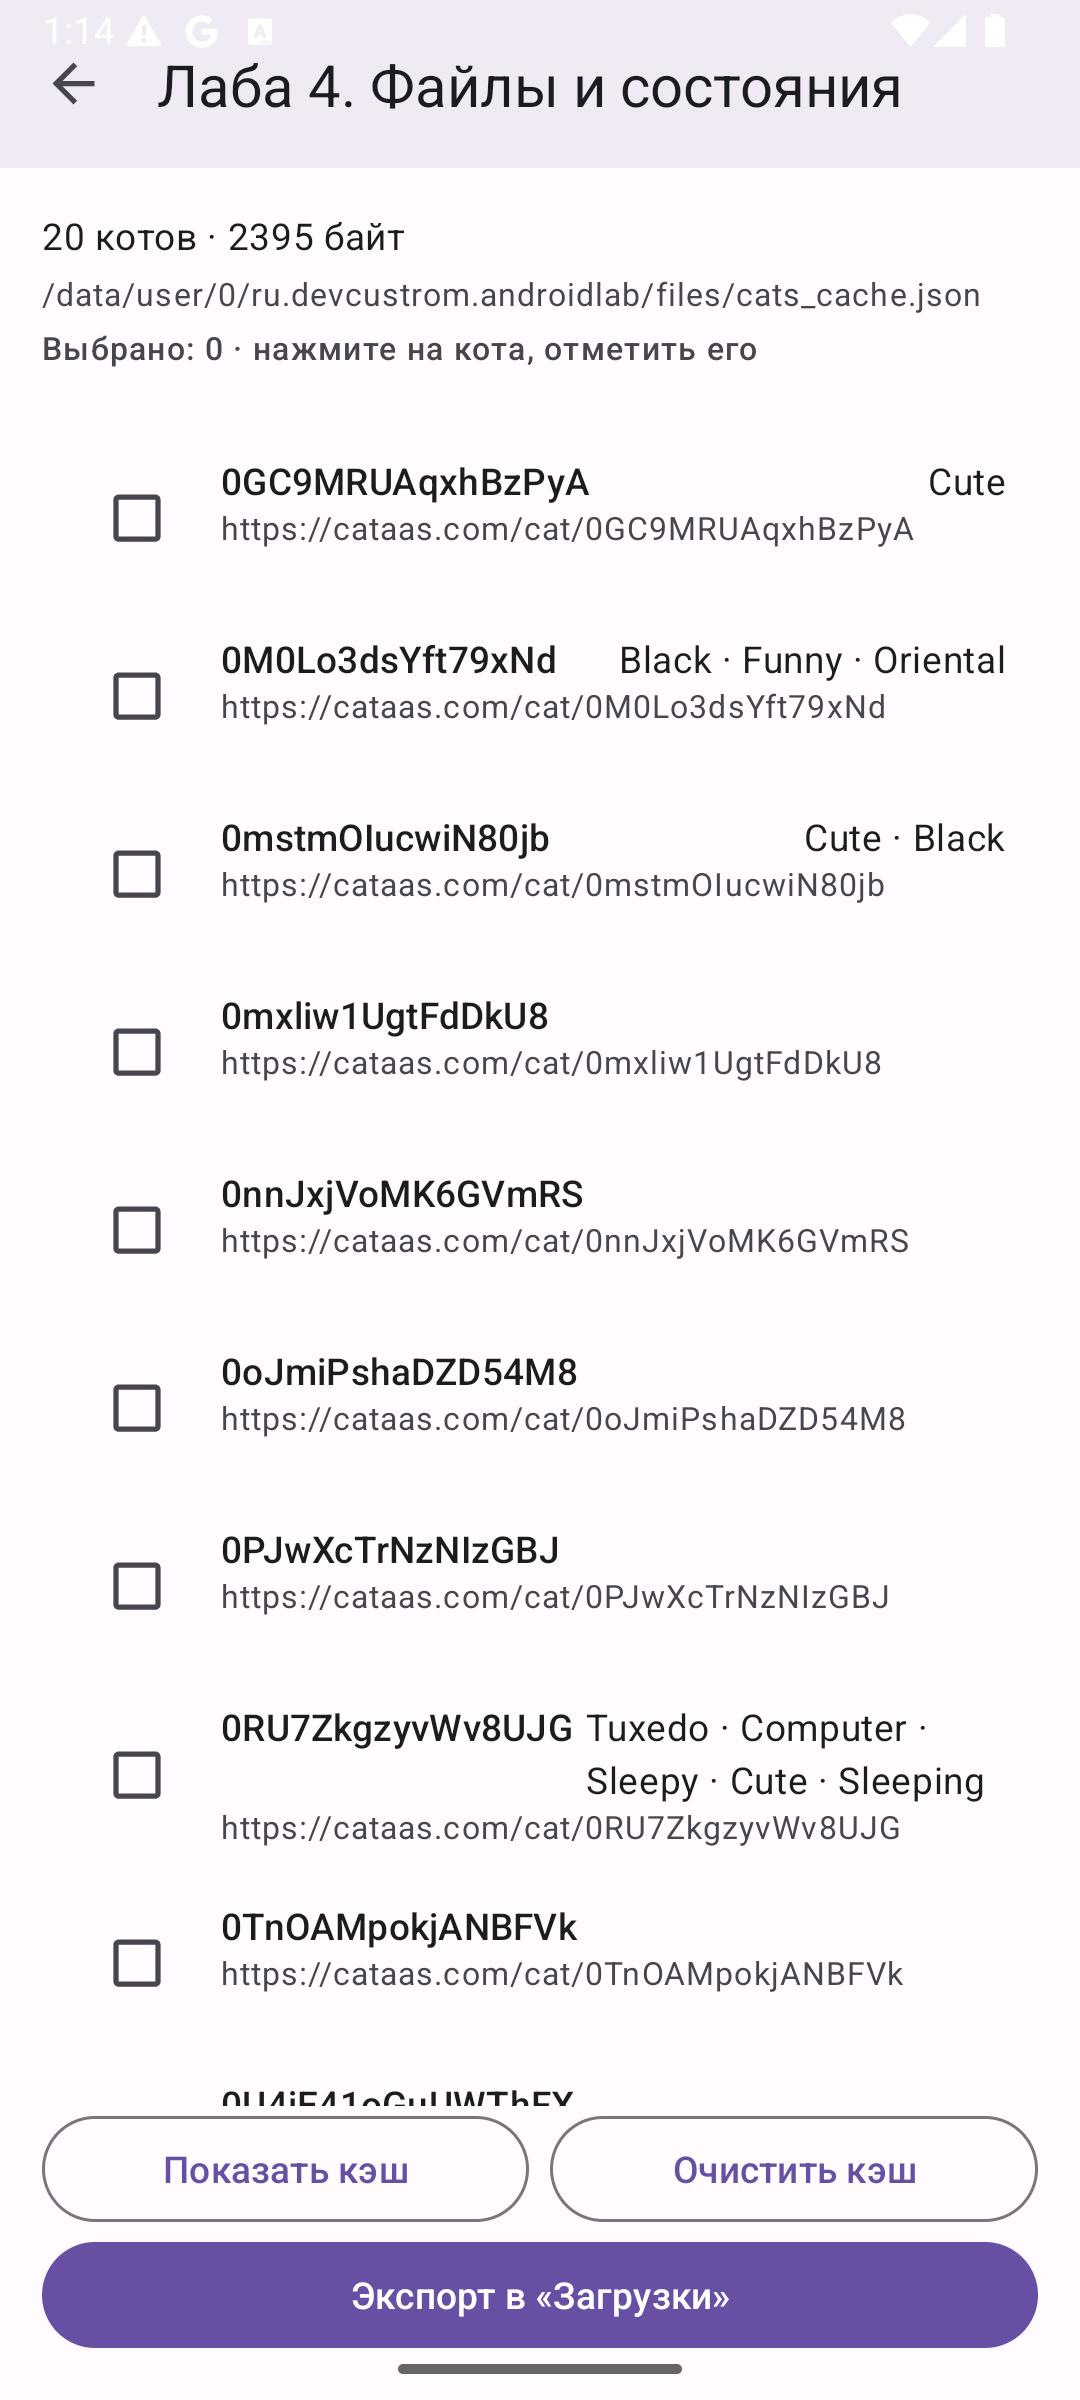
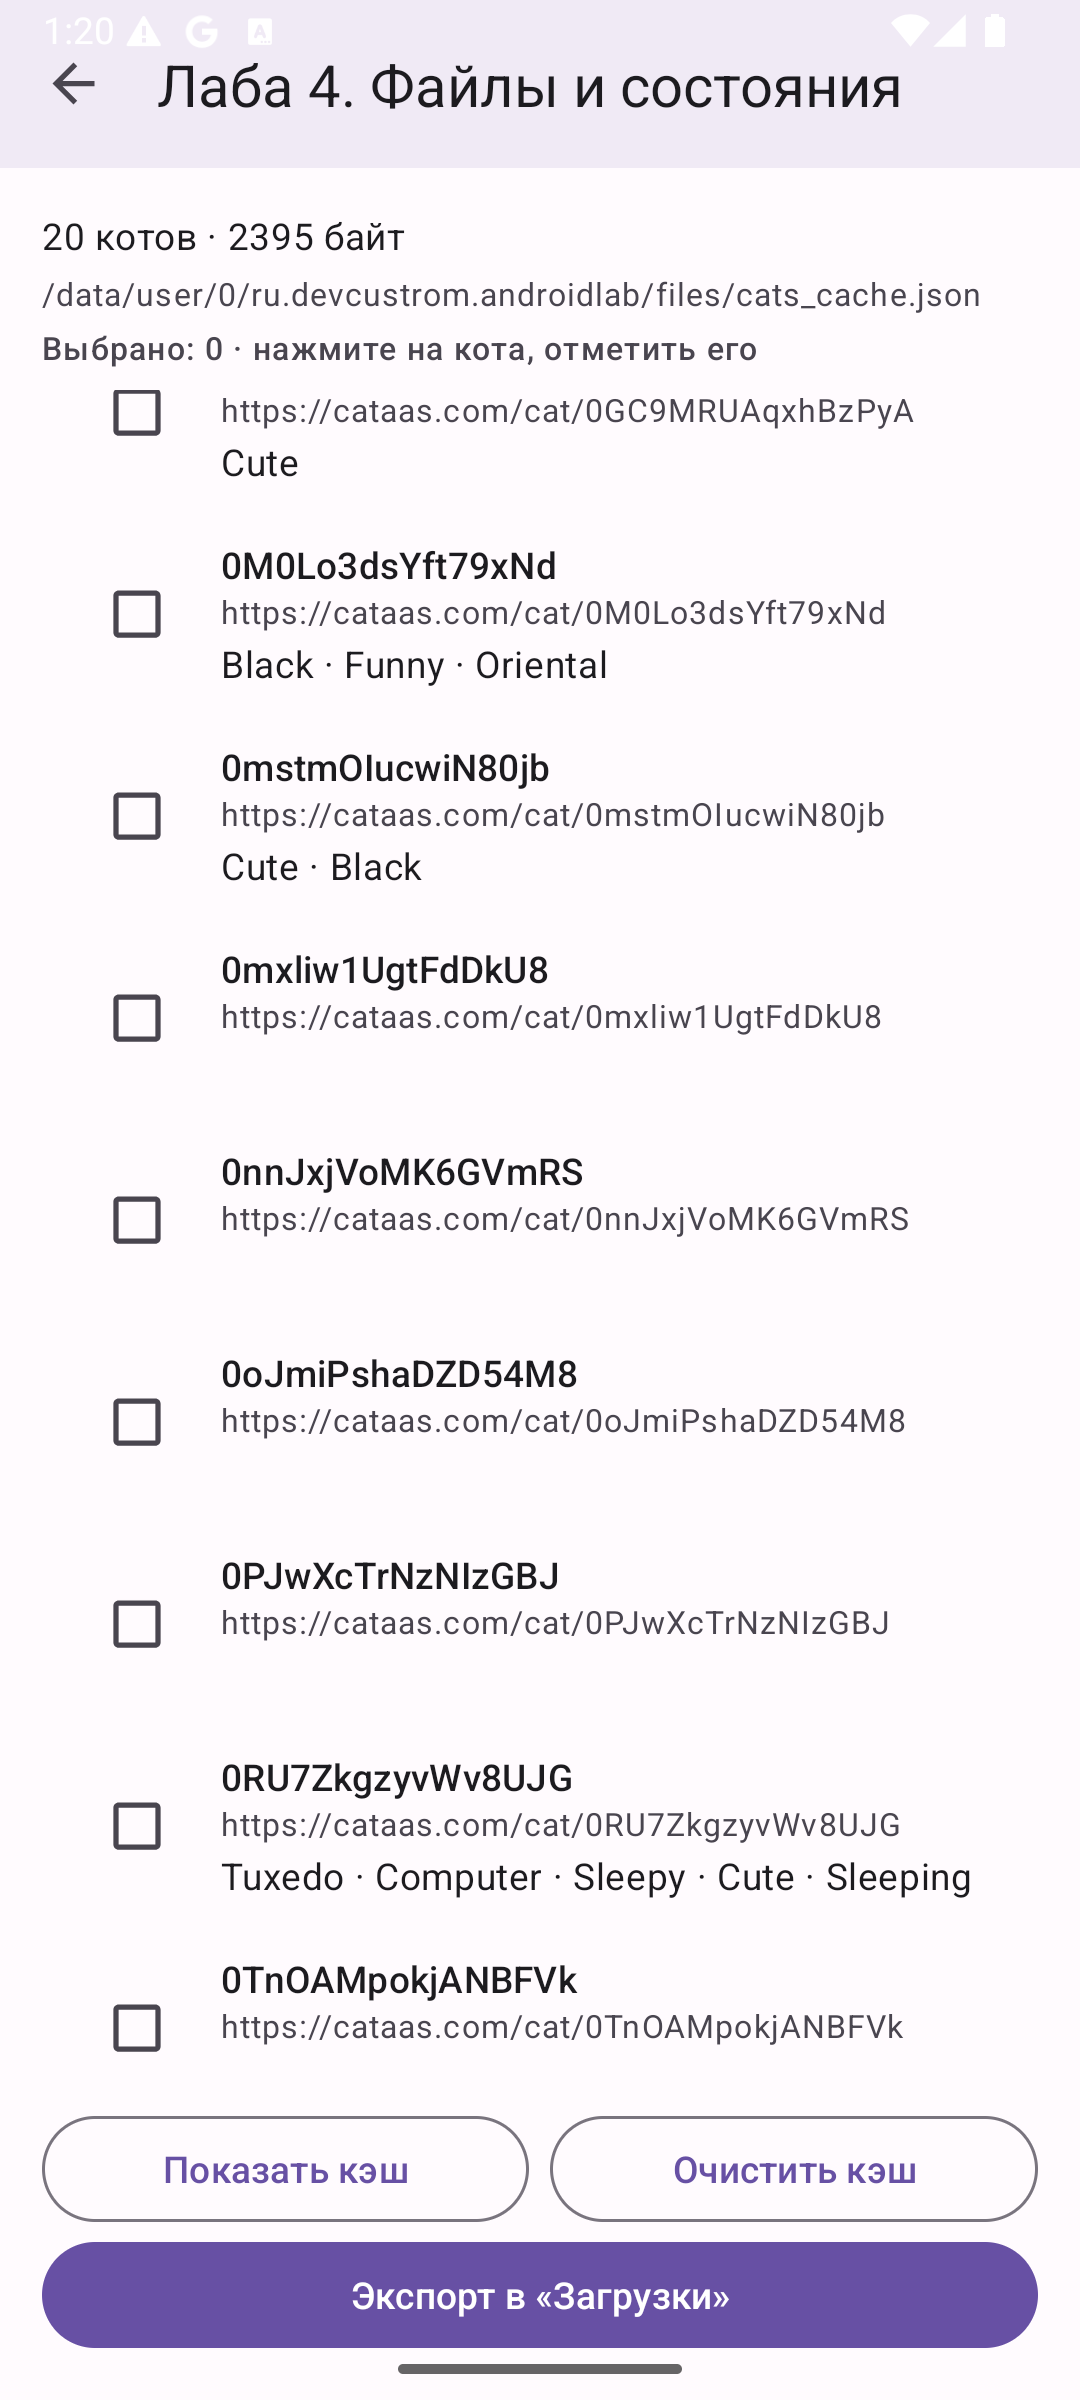
fix(lab4): перенести теги под ссылку в карточке кэша
Теги теперь отдельной строкой после url (id -> url -> теги): у них вся ширина, 5 тегов помещаются без сжатия id. Убраны потолок ширины тегов и Barrier. Обновлены грабля 8 в docs/04, скриншот и CHANGELOG.

diff --git a/docs/04-lab-files-state.md b/docs/04-lab-files-state.md
@@ -378,17 +378,15 @@ ERROR: strings.xml: Found item String/lab4_summary more than one time
 между чекбоксом и тегами. Длинная строка тегов забирала всю ширину, и «остаток»
 для id схлопывался почти до нуля — `TextView` переносил по одной букве в строку.
 
-**Что сделано:**
-- у тегов ограничена ширина: `app:layout_constrainedWidth="true"` +
-  `app:layout_constraintWidth_max="160dp"`, `maxLines="2"`, `ellipsize="end"`;
-- у id — `maxLines="1"` + `ellipsize="end"`, чтобы он не мог «сложиться» ни при
-  каком тексте;
-- под самой низкой из двух верхних строк теперь опускается url: для этого добавлен
-  `Barrier` (`app:barrierDirection="bottom"`, `catId,catTags`). Без барьера вторая
-  строка тегов наезжала на ссылку.
+**Что сделано:** теги вынесены отдельной строкой **после ссылки**. Порядок в
+карточке стал: id → url → теги. Так у тегов вся ширина до правого края: они
+спокойно переносятся (`maxLines="2"`, `ellipsize="end"`), не отбирая место у id
+и ссылки. У id и url — `maxLines="1"` + `ellipsize`, чтобы ни один из них не мог
+«сложиться» в столбик. Потолок ширины тегов и `Barrier` после переноса стали не
+нужны.
 
-| До | После |
-|----|-------|
+| Было (теги в строке с id) | Стало (теги после ссылки) |
+|---------------------------|---------------------------|
 | id по одной букве в строке | ![Список с тегами](assets/lab4-step4-tags.png) |
 
 ---

diff --git a/CHANGELOG.md b/CHANGELOG.md
@@ -9,11 +9,9 @@
 
 ### Исправлено
 - `item_cache_cat.xml` (Лаба 4): у кота с 5+ тегами wrap_content-строка тегов
-  забирала всю ширину и сжимала `catId` до одной буквы в строке. Ширина тегов
-  ограничена (`layout_constrainedWidth` + `layout_constraintWidth_max`,
-  `maxLines=2`), у id включены `maxLines=1`/`ellipsize`, а под самой низкой из
-  строк id/теги теперь опускается url — через `Barrier`, иначе вторая строка
-  тегов наезжала на ссылку.
+  забирала всю ширину и сжимала `catId` до одной буквы в строке. Теги вынесены
+  отдельной строкой после ссылки (порядок id → url → теги), у id и url включены
+  `maxLines=1`/`ellipsize`, у тегов — `maxLines=2`/`ellipsize` на всю ширину.
 
 ## [1.5.0] — Лабораторная 6
 
